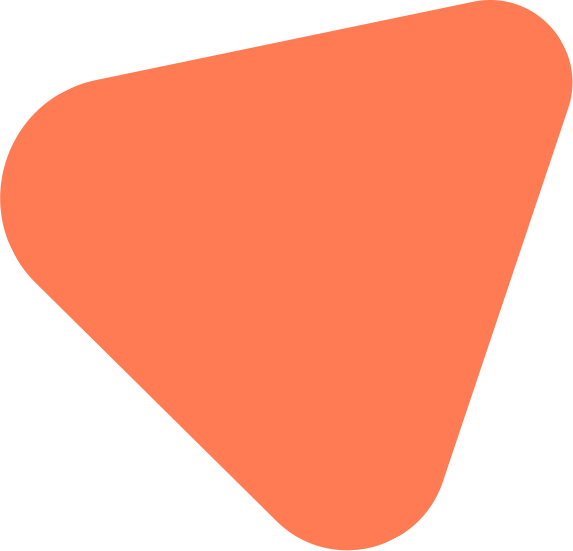
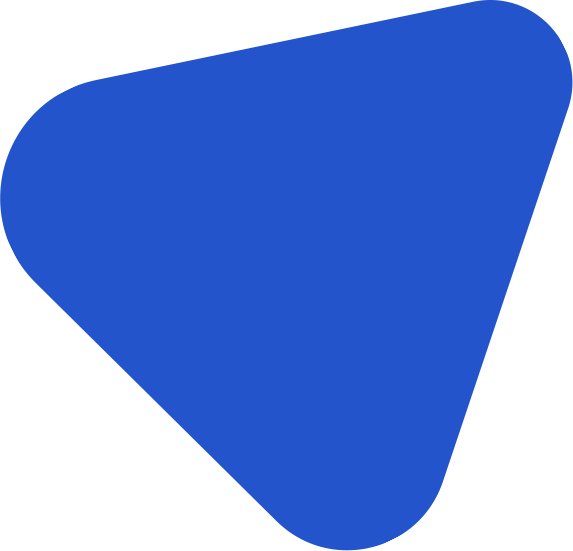
style improvements

diff --git a/index.html b/index.html
@@ -49,7 +49,7 @@
                             </li>
                             <li class="nav-item">
                                 <a class="nav-link try_free_btn" href="https://www.apple.com/app-store/"
-                                    target="_blank">Download Now</a>
+                                    target="_blank">Download</a>
                             </li>
                         </ul>
                     </div>
@@ -66,7 +66,7 @@
                     <div class="col-lg-6 col-md-6 col-sm-12 col-12">
                         <div class="banner_content" data-aos="fade-down">
                             <h1>Internalize your goals.</h1>
-                            <p class="text-white">Focus on what's within your control.</p>
+                            <p class="text-white">Focus on what's within your control. Achieve the impossible.</p>
                             <span>Available on:</span>
                             <div class="image_wrapper">
                                 <a href="https://www.apple.com/app-store/">
@@ -83,7 +83,7 @@
                                 <img src="assets/images/bannerphoneback-image1.png" alt="">
                             </figure>
                             <figure class="mb-0 bannerphone2">
-                                <img class="img-fluid" src="assets/images/hero.png" alt="">
+                                <img class="img-fluid hero-img" src="assets/images/hero.png" alt="">
                             </figure>
                         </div>
                     </div>
@@ -322,9 +322,6 @@
                     </div>
                 </div>
                 <div class="col-lg-1 col-md-1 col-sm-1 d-lg-block d-none"></div>
-                <figure class="mb-0 faq_shape">
-                    <img src="assets/images/faq_icon.png" alt="" class="img-fluid">
-                </figure>
             </div>
         </div>
     </section>
@@ -335,7 +332,7 @@
             <div class="footer-lower">
                 <div class="row">
                     <div class="col-lg-12 col-md-12 col-sm-12 col-12">
-                        <p class="mb-0 text-size-18 text-center">© 2023 Internalize. All Rights Reserved</p>
+                        <p class="mb-0 text-size-18 text-center">© 2023 Blit Labs. All Rights Reserved</p>
                     </div>
                 </div>
             </div>

diff --git a/assets/css/style.css b/assets/css/style.css
@@ -33,7 +33,7 @@ p {
 :root {
   --e-global-color-primary: #150d45;
   --e-global-banner-primary: #2354cc;
-  --e-global-color-secondary: #fc9409;
+  --e-global-color-secondary: #2354CC;
   --e-global-color-text: #4f4975;
   --e-global-color-green: #0e1f50;
   --e-global-color-white: #ffffff;
@@ -136,7 +136,6 @@ p {
   color: var(--e-global-color-white) !important;
 }
 .navbar-nav .nav-item a:hover {
-  color: var(--e-global-color-secondary) !important;
   background-color: transparent;
 }
 .navbar-nav .active > a {
@@ -161,8 +160,8 @@ p {
   padding-top: 0;
   padding-bottom: 0;
   display: flex;
-  align-items: baseline;
-  gap: 4px;
+  align-items: center;
+  gap: 16px;
 }
 .navbar-brand .internalize-icon {
   max-height: 38px;
@@ -309,6 +308,11 @@ p {
 .aboutus-section .aboutus_text {
   padding: 48px 0 0;
 }
+
+.hero-img {
+  max-width: 450px;
+}
+
 .basic-feature {
   padding-bottom: 69px;
 }
